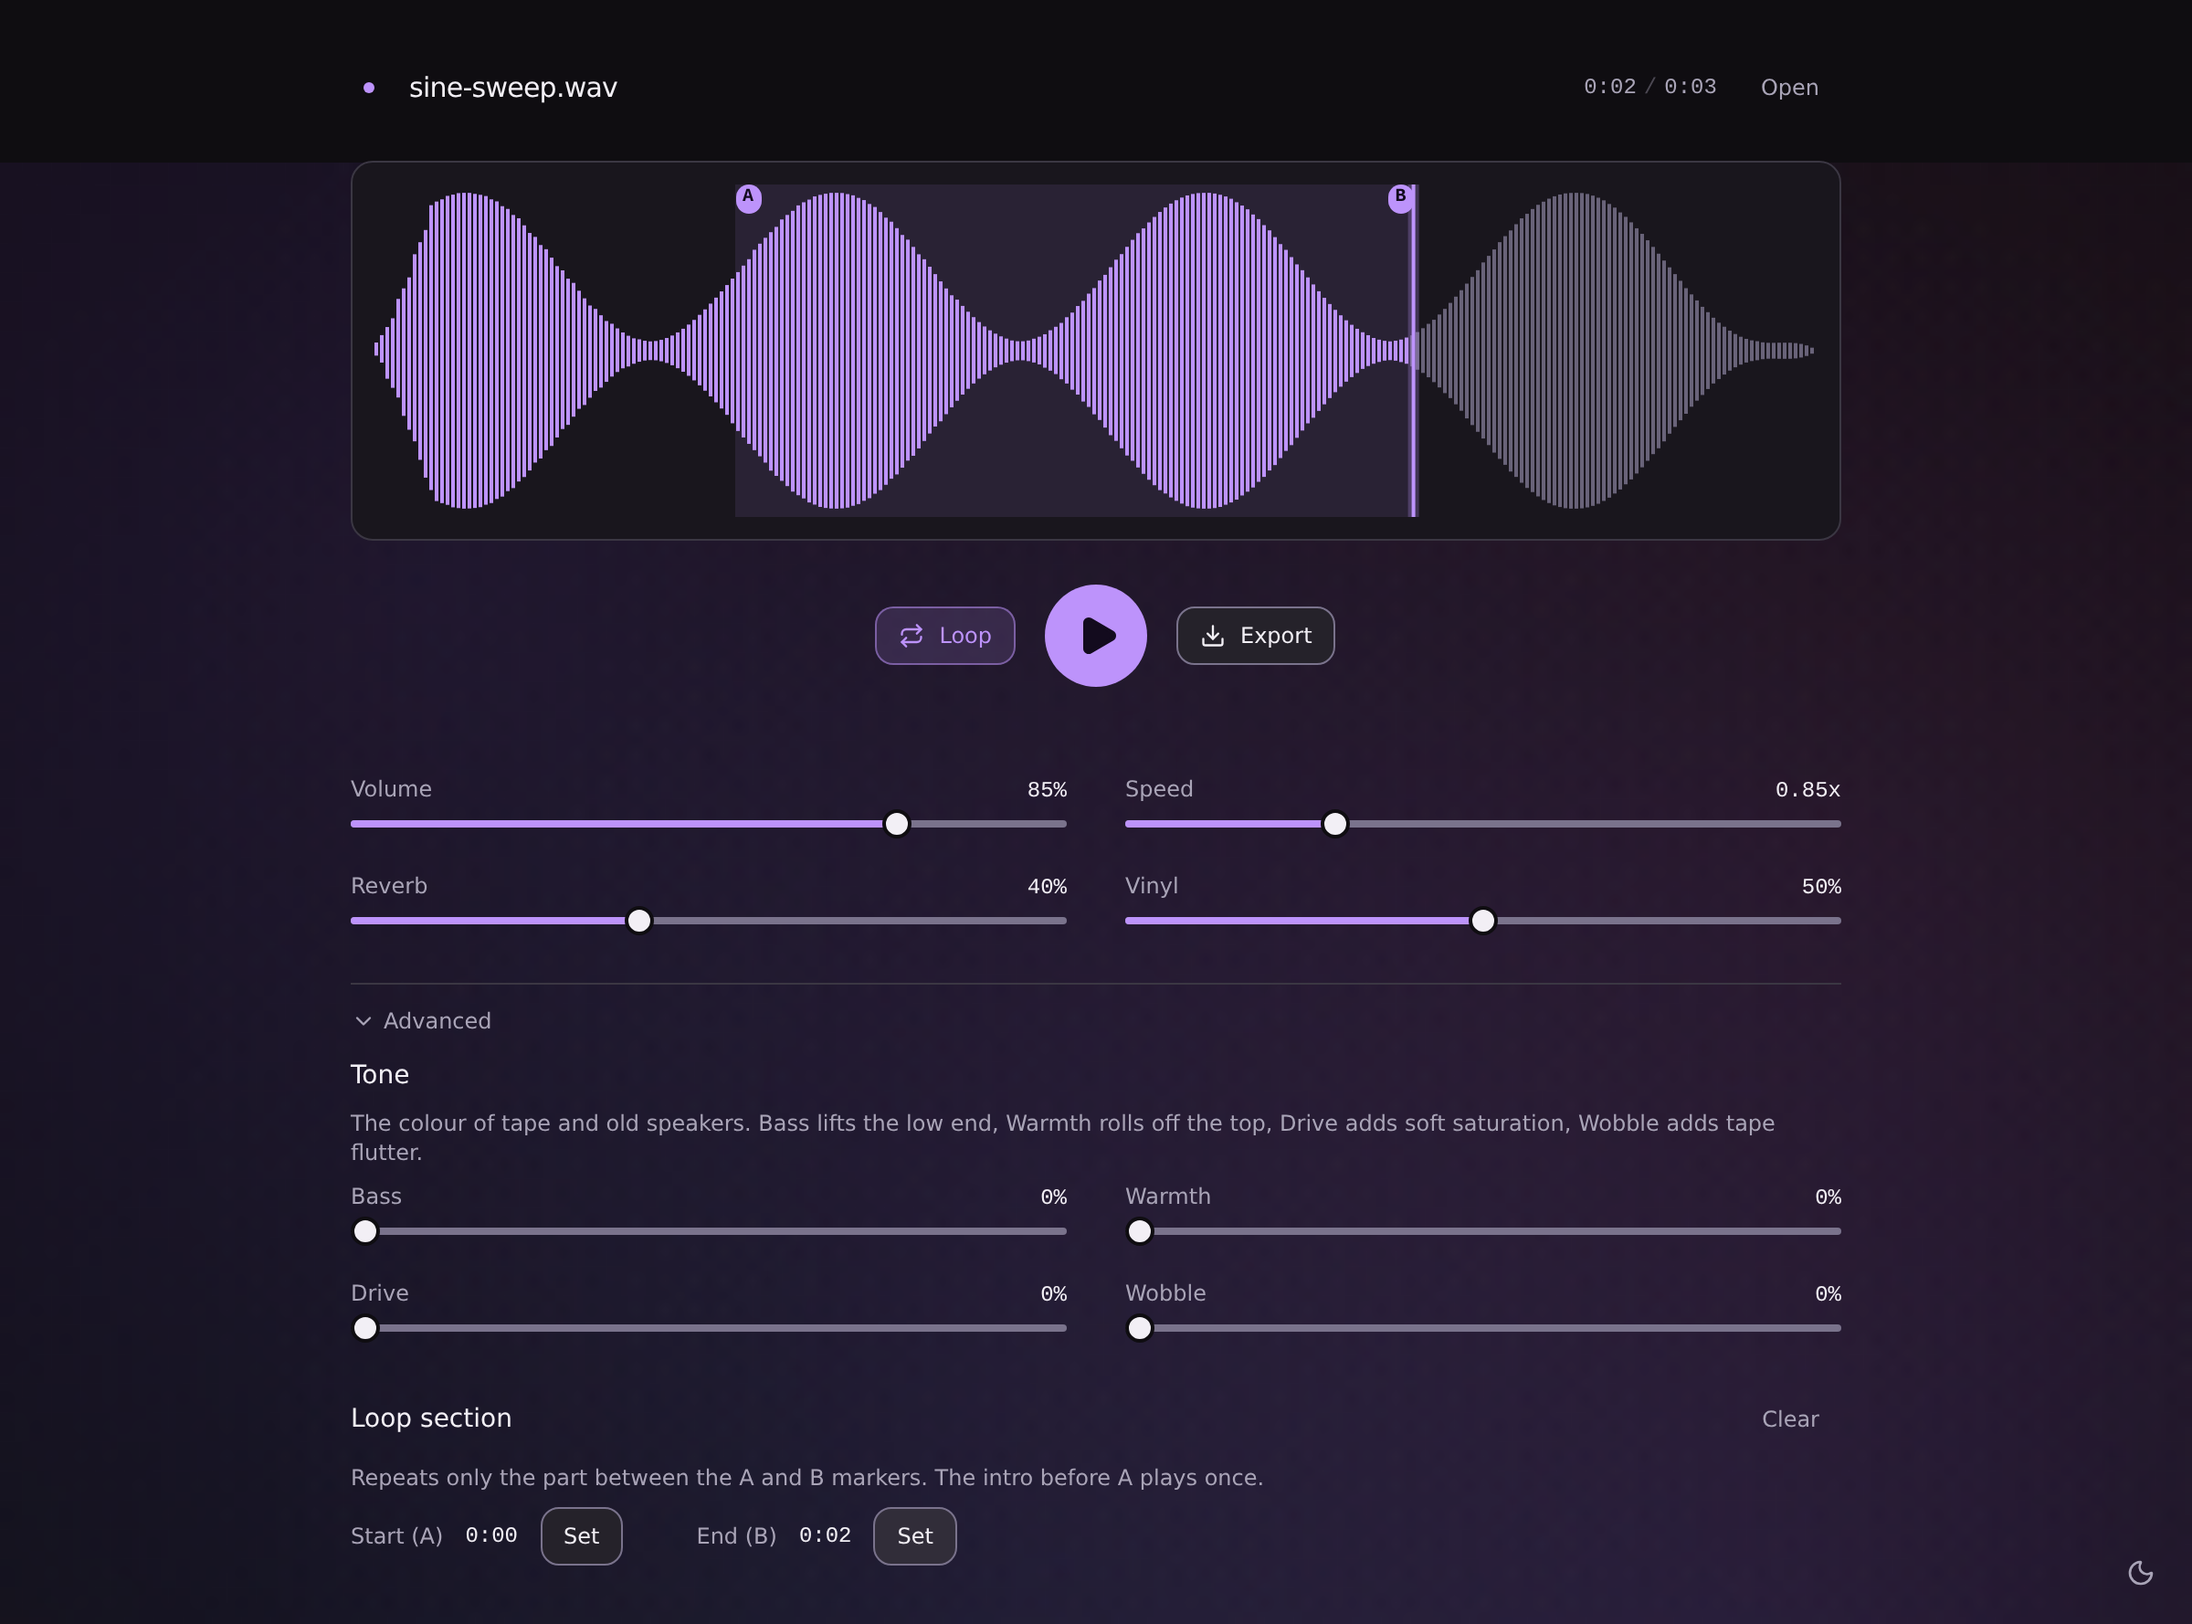
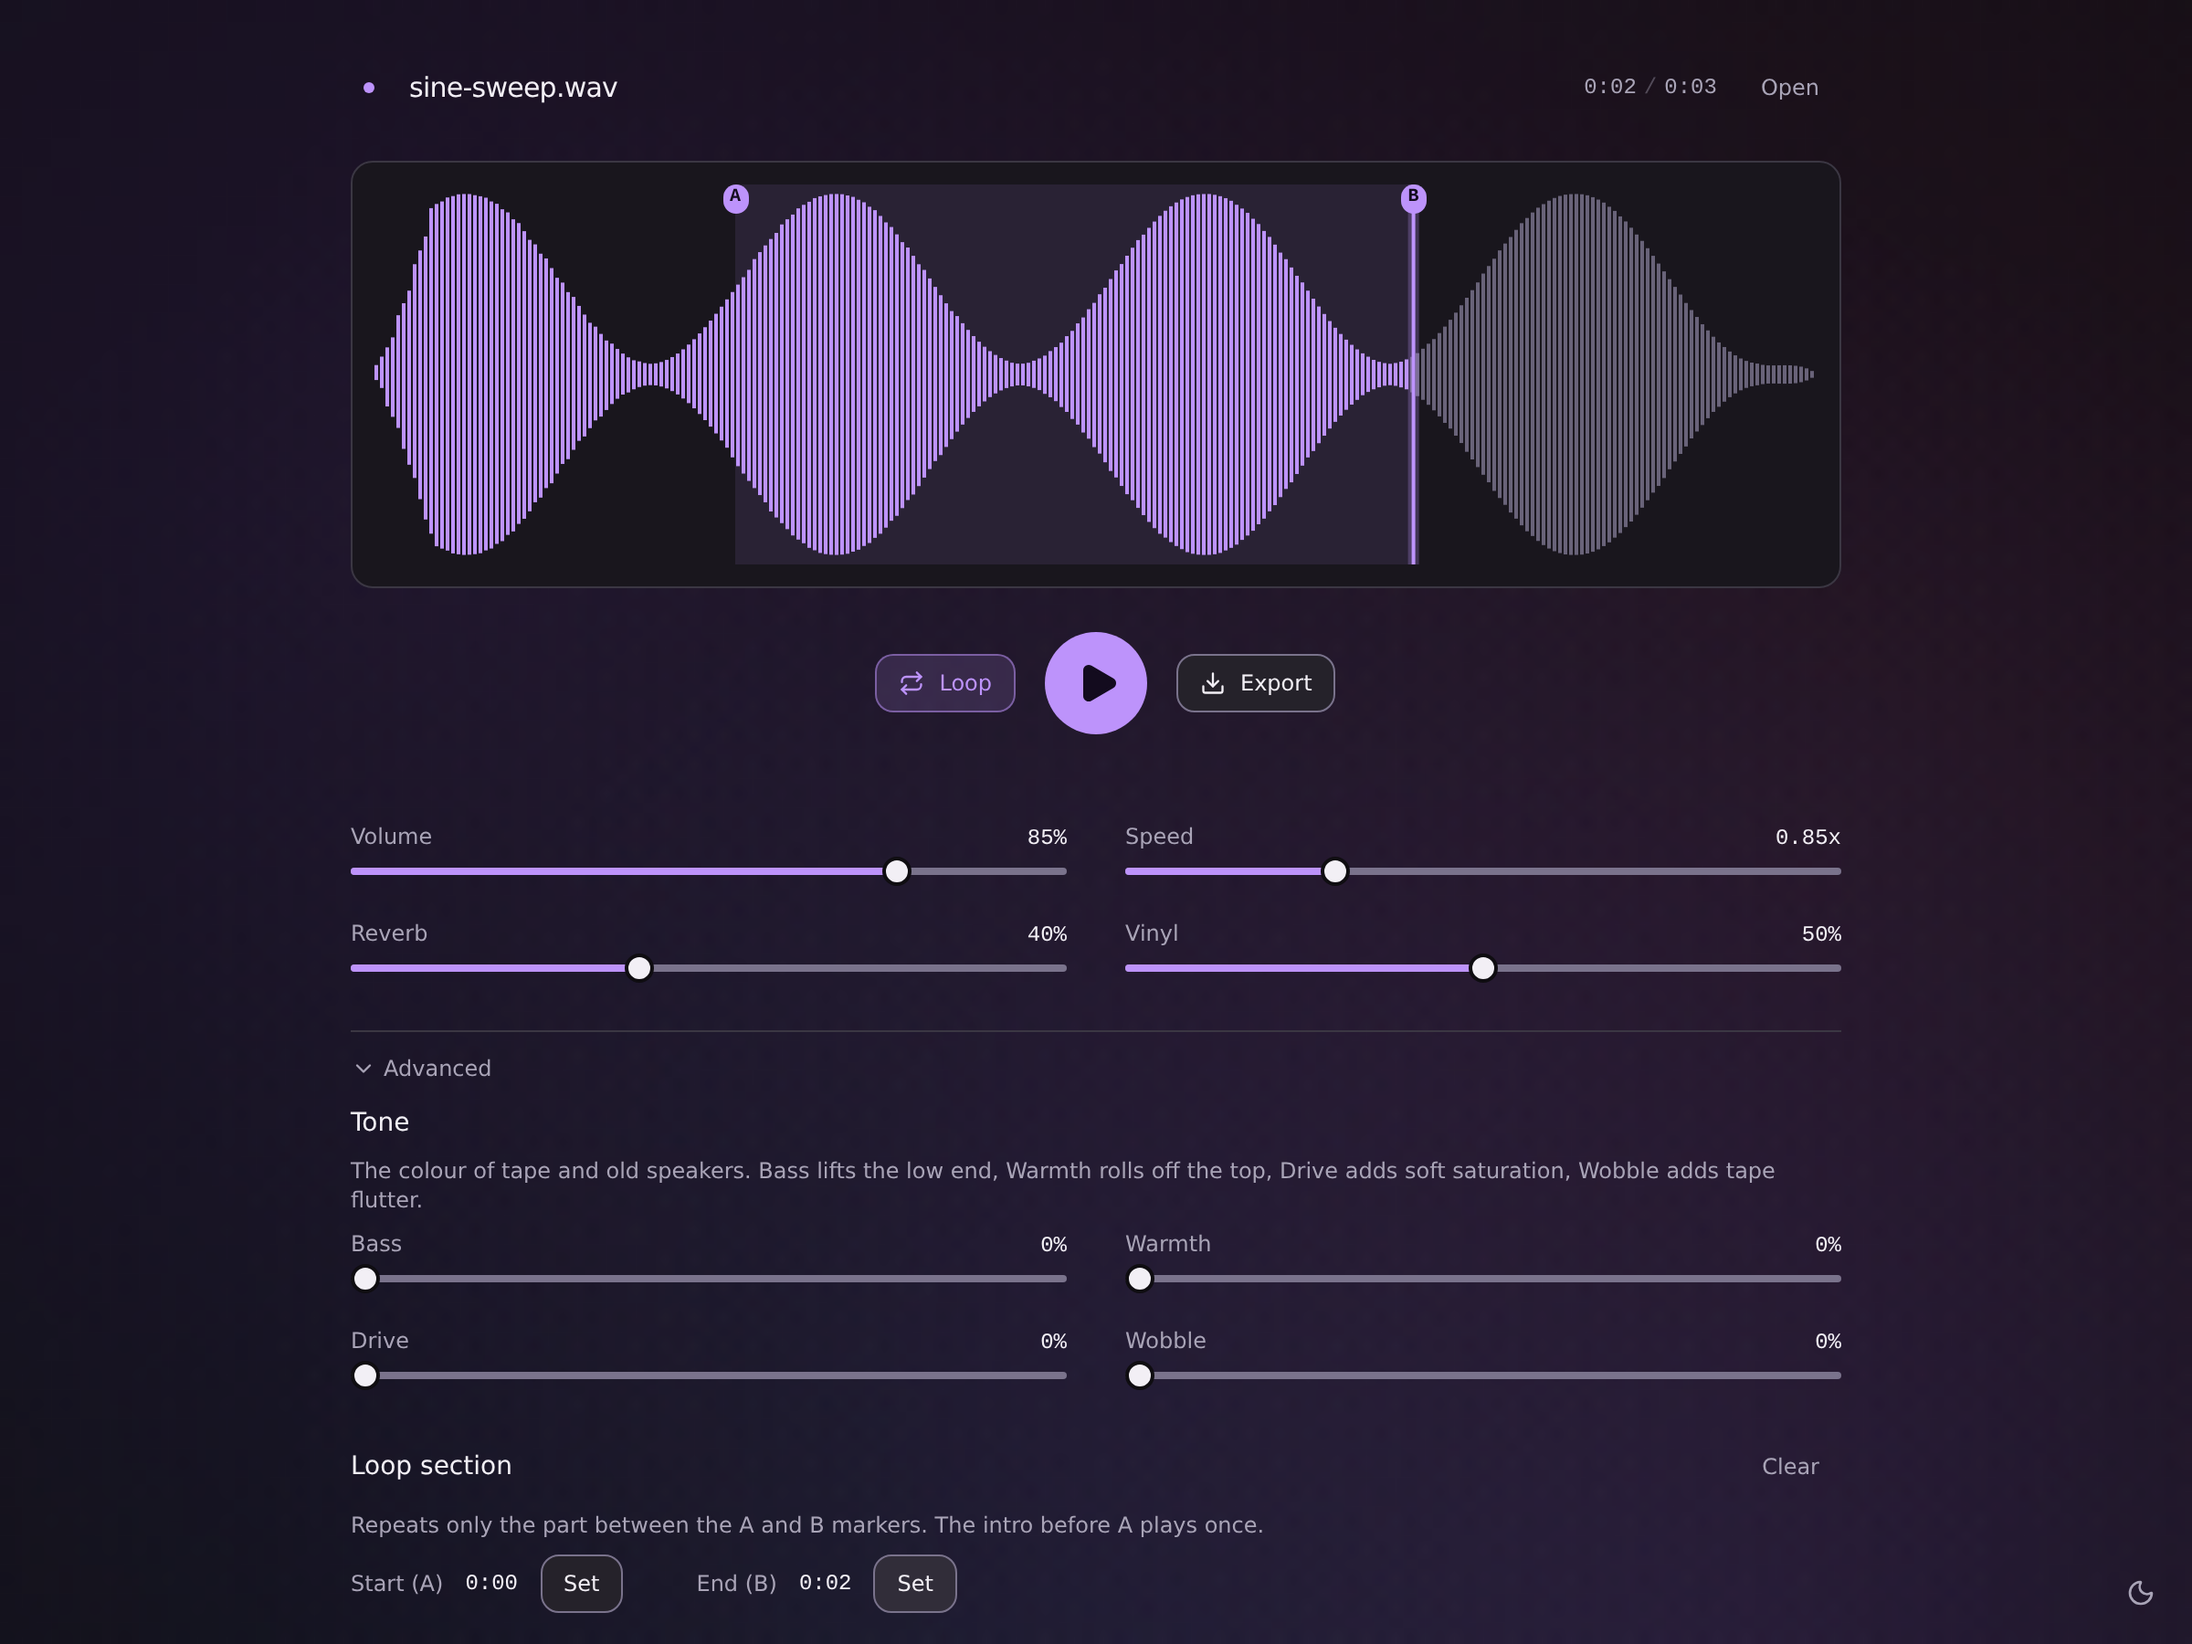
fix: WebKitGTK drop no longer navigates, A/B chips centred on their boundaries, README captures without the full-page stitch

diff --git a/src/hooks/use-file-drop.test.ts b/src/hooks/use-file-drop.test.ts
@@ -1,0 +1,84 @@
+// @vitest-environment jsdom
+import { act, renderHook } from "@testing-library/react";
+import { afterEach, describe, expect, it, vi } from "vitest";
+import { makeFile } from "../test/web-audio-stub";
+import { useFileDrop } from "./use-file-drop";
+
+/**
+ * A drag event shaped the way WebKit delivers it: `types` says "Files" from the
+ * first dragenter, `items` stays empty until the drop, `files` fills on drop.
+ */
+const dragEvent = (
+  type: string,
+  files: File[] = [],
+  types: string[] = ["Files"],
+): Event & { preventDefault: () => void; defaultPrevented: boolean } => {
+  const event = new Event(type, { bubbles: true, cancelable: true });
+  Object.defineProperty(event, "dataTransfer", {
+    value: { types, items: [], files, dropEffect: "none" },
+  });
+  return event;
+};
+
+afterEach(() => vi.useRealTimers());
+
+describe("useFileDrop", () => {
+  it("claims a file drag WebKit-style, where only types announces the files", () => {
+    const onFile = vi.fn();
+    const { result } = renderHook(() => useFileDrop(onFile));
+
+    const enter = dragEvent("dragenter");
+    const over = dragEvent("dragover");
+    act(() => {
+      window.dispatchEvent(enter);
+      window.dispatchEvent(over);
+    });
+    expect(enter.defaultPrevented).toBe(true);
+    expect(over.defaultPrevented).toBe(true);
+    expect(result.current.isDragging).toBe(true);
+
+    const song = makeFile("song.flac", 8, "");
+    const drop = dragEvent("drop", [song]);
+    act(() => {
+      window.dispatchEvent(drop);
+    });
+    expect(drop.defaultPrevented).toBe(true);
+    expect(onFile).toHaveBeenCalledWith(song);
+    expect(result.current.isDragging).toBe(false);
+  });
+
+  it("cancels every drop so the page never navigates, even for non-files", () => {
+    const onFile = vi.fn();
+    renderHook(() => useFileDrop(onFile));
+
+    const over = dragEvent("dragover", [], ["text/plain"]);
+    const drop = dragEvent("drop", [], ["text/plain"]);
+    act(() => {
+      window.dispatchEvent(over);
+      window.dispatchEvent(drop);
+    });
+    expect(over.defaultPrevented).toBe(true);
+    expect(drop.defaultPrevented).toBe(true);
+    expect(onFile).not.toHaveBeenCalled();
+  });
+
+  it("refuses a non-audio file and clears the refusal after a moment", () => {
+    vi.useFakeTimers();
+    const onFile = vi.fn();
+    const { result } = renderHook(() => useFileDrop(onFile));
+
+    act(() => {
+      window.dispatchEvent(dragEvent("dragenter"));
+      window.dispatchEvent(
+        dragEvent("drop", [makeFile("notes.txt", 8, "text/plain")]),
+      );
+    });
+    expect(onFile).not.toHaveBeenCalled();
+    expect(result.current.isRejected).toBe(true);
+
+    act(() => {
+      vi.advanceTimersByTime(2100);
+    });
+    expect(result.current.isRejected).toBe(false);
+  });
+});

diff --git a/src/hooks/use-file-drop.ts b/src/hooks/use-file-drop.ts
@@ -12,9 +12,22 @@ export interface FileDropState {
 }
 
 /**
+ * `types` lists "Files" in every engine while a drag is in flight; `items` is
+ * empty in WebKit until the drop, so it is only a second opinion.
+ */
+const carriesFiles = (event: DragEvent): boolean => {
+  const transfer = event.dataTransfer;
+  if (!transfer) return false;
+  return (
+    Array.from(transfer.types).includes("Files") ||
+    Array.from(transfer.items ?? []).some((item) => item.kind === "file")
+  );
+};
+
+/**
  * Window-wide audio drop target. Listens on `window` so the whole player is a
- * target, and counts enter/leave depth so crossing a child element does not
- * flicker the overlay.
+ * target, counts enter/leave depth so crossing a child element does not flicker
+ * the overlay, and cancels every drop so the webview can never navigate to a file.
  */
 export const useFileDrop = (onFile: (file: File) => void): FileDropState => {
   const [state, setState] = useState<FileDropState>({
@@ -30,13 +43,8 @@ export const useFileDrop = (onFile: (file: File) => void): FileDropState => {
     let depth = 0;
     let timer: ReturnType<typeof setTimeout> | undefined;
 
-    const carriesFile = (event: DragEvent): boolean =>
-      Array.from(event.dataTransfer?.items ?? []).some(
-        (item) => item.kind === "file",
-      );
-
     const onEnter = (event: DragEvent): void => {
-      if (!carriesFile(event)) return;
+      if (!carriesFiles(event)) return;
       event.preventDefault();
       // A rejection still counting down must not clear the overlay we just raised.
       clearTimeout(timer);
@@ -44,10 +52,13 @@ export const useFileDrop = (onFile: (file: File) => void): FileDropState => {
       setState({ isDragging: true, isRejected: false });
     };
 
+    // Cancelling dragover is what lets `drop` fire at all; an uncancelled drop
+    // makes the page navigate to the file, which is the browser default.
     const onOver = (event: DragEvent): void => {
-      if (!carriesFile(event)) return;
       event.preventDefault();
-      if (event.dataTransfer) event.dataTransfer.dropEffect = "copy";
+      if (event.dataTransfer) {
+        event.dataTransfer.dropEffect = carriesFiles(event) ? "copy" : "none";
+      }
     };
 
     const onLeave = (): void => {
@@ -56,8 +67,8 @@ export const useFileDrop = (onFile: (file: File) => void): FileDropState => {
     };
 
     const onDrop = (event: DragEvent): void => {
-      if (!carriesFile(event)) return;
       event.preventDefault();
+      if (!carriesFiles(event)) return;
       clearTimeout(timer);
       depth = 0;
       const file = Array.from(event.dataTransfer?.files ?? []).find(

diff --git a/scripts/screenshots.ts b/scripts/screenshots.ts
@@ -6,7 +6,8 @@
  *   node scripts/screenshots.ts [--out <dir>] [--readme]
  *
  * It builds nothing. `--out` defaults to a folder in the OS temp directory;
- * `--readme` writes only the README images (the loop-points state, dark and light) into assets/.
+ * `--readme` writes only the README images (the loop-points state, dark and light) into
+ * assets/ and the Open Graph card into public/og.png.
  */
 import { chromium, webkit, type Browser, type Page } from "@playwright/test";
 import { mkdir, writeFile } from "node:fs/promises";
@@ -230,27 +231,30 @@ const run = async (): Promise<void> => {
 
   if (readmeOnly) {
     const browser = await chromium.launch();
+    // Tall enough to hold the page with Advanced open, so nothing scrolls: a
+    // full-page stitch would leave the fixed aura canvas behind the stitched rows.
     const context = await browser.newContext({
-      viewport: { width: 1200, height: 800 },
+      viewport: { width: 1200, height: 900 },
       deviceScaleFactor: 2,
     });
     for (const scheme of ["dark", "light"] as const) {
       const page = await context.newPage();
       await page.emulateMedia({ colorScheme: scheme });
       await walk(page, async (name) => {
-        if (name === "10-loop-points") {
+        if (name !== "10-loop-points") return;
+        await page.screenshot({ path: `assets/screenshot-${scheme}.png` });
+        if (scheme === "dark") {
           await page.screenshot({
-            path: `assets/screenshot-${scheme}.png`,
-            fullPage: true,
+            path: "public/og.png",
+            clip: { x: 0, y: 0, width: 1200, height: 630 },
+            scale: "css",
           });
         }
       });
       await page.close();
     }
     await browser.close();
-    console.log(
-      "wrote assets/screenshot-dark.png and assets/screenshot-light.png",
-    );
+    console.log("wrote assets/screenshot-{dark,light}.png and public/og.png");
     return;
   }
 

diff --git a/src/components/audio-waveform.tsx b/src/components/audio-waveform.tsx
@@ -13,8 +13,9 @@ const PITCH = 3;
 const BAR = 2;
 const MIN_BAR = 2;
 
+/** A/B chips sit centred on their own boundary, so neither reads as "inside" or "outside". */
 const MARKER =
-  "pointer-events-none absolute top-0 rounded-sm bg-primary px-1 font-mono text-[10px] font-semibold leading-4 text-primary-foreground";
+  "pointer-events-none absolute top-0 -translate-x-1/2 rounded-sm bg-primary px-1 font-mono text-[10px] font-semibold leading-4 text-primary-foreground";
 
 interface Palette {
   idle: string;
@@ -266,9 +267,7 @@ const AudioWaveform: React.FC<AudioWaveformProps> = memo(
                 </span>
                 <span
                   className={MARKER}
-                  style={{
-                    right: `${100 - (loopRegion.end / duration) * 100}%`,
-                  }}
+                  style={{ left: `${(loopRegion.end / duration) * 100}%` }}
                 >
                   B
                 </span>

diff --git a/docs/decisions.md b/docs/decisions.md
@@ -18,7 +18,7 @@ ADR-lite. One entry per decision that shouldn't be re-litigated from scratch eac
 
 - **Decision:** Web Audio engine for now. A `TauriEngine` behind the same interface (symphonia decode, kira or fundsp graph, fft-convolver, Tauri `ipc::Channel` for position) only if triggered.
 - **Why:** building a second engine for a problem the webview doesn't have yet is waste.
-- **Revisit when:** Linux WebKitGTK audio output proves unfixable in the webview, or streaming long files becomes a requirement.
+- **Revisit when:** streaming long files becomes a requirement. Linux output is confirmed working (Ubuntu 24.04 GNOME, `.deb` build), so that trigger is retired.
 
 ### Whole-track PCM in memory
 

diff --git a/docs/audio-engine.md b/docs/audio-engine.md
@@ -133,9 +133,9 @@ would mean giving up instant seeking.
 ## WebKitGTK notes
 
 An `AudioContext` starts `suspended` under autoplay policy, so `resume()` is awaited
-inside the user gesture that triggered it (`load()` from picking a file, `play()` from
-the button). Whether audio actually reaches the Linux output device through WebKitGTK
-is unverified on this machine — see `docs/decisions.md`.
+inside the gesture that triggered it (`load()` from picking a file, `play()` from the
+button). Playback, export and drag-and-drop work in the `.deb` on Ubuntu 24.04 GNOME;
+a WebKitGTK drop announces files only through `DataTransfer.types`, which `useFileDrop` reads first.
 
 ## Generated sounds
 

diff --git a/docs/testing.md b/docs/testing.md
@@ -134,8 +134,8 @@ exactly one frame of half a second — no wall-clock waiting, no flake.
 `npm run screenshots` captures the UI state matrix for both engines into
 `--out <dir>` (default: a folder in the OS temp directory). It builds nothing, so
 run `npm run build` and `npx serve out -l 3123` first. Adding `-- --readme`
-regenerates `assets/screenshot-dark.png` and `-light.png` from the loop-points
-state, so the README images cannot go stale. A review tool, not a test; CI never runs it.
+regenerates `assets/screenshot-dark.png`, `-light.png` and `public/og.png` from the
+loop-points state in a viewport holding the whole page. A review tool; CI never runs it.
 
 ## CI
 
